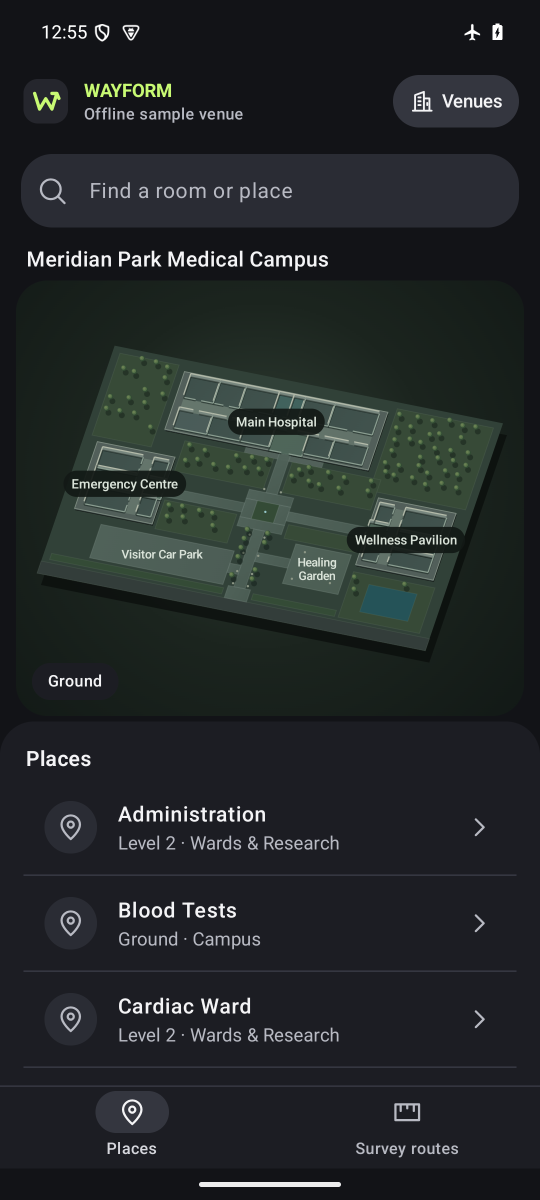
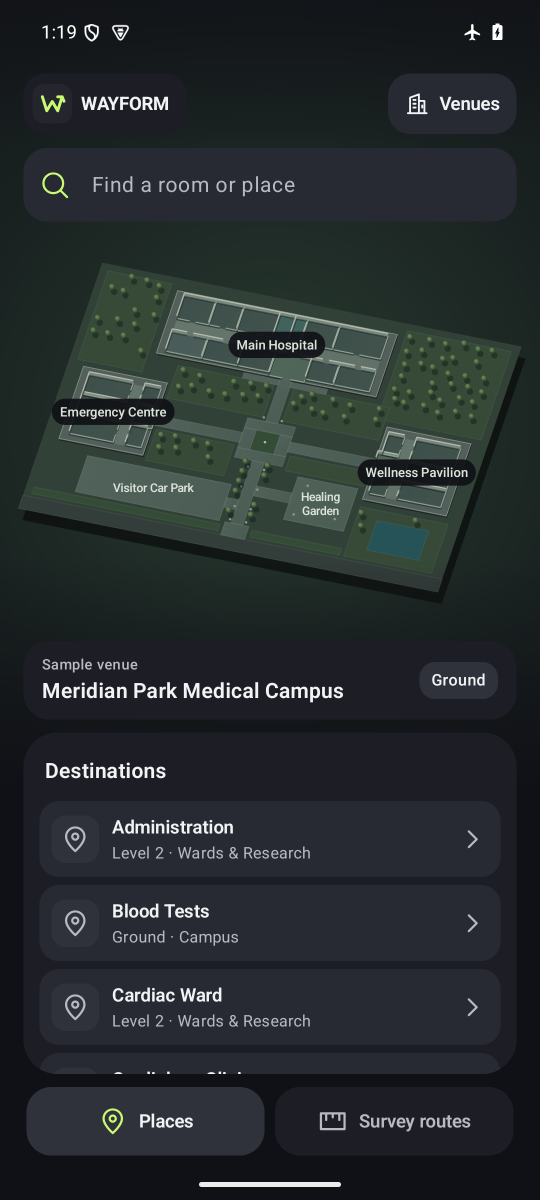
Update the walkthrough and screenshots for preview 5

diff --git a/README.md b/README.md
@@ -2,21 +2,21 @@
 
 WAYFORM is an offline Android wayfinding app for getting from a venue entrance to a specific room. Its survey planner checks which paths have enough measured clearance, slope and step evidence for a visitor’s requirements.
 
-**[Download the Android preview](https://github.com/SanishKumar/wayform/releases/download/v0.1.0-preview.4/wayform-0.1.0-preview.4.apk)** · [Release notes and checksum](https://github.com/SanishKumar/wayform/releases/tag/v0.1.0-preview.4) · [Build from source](docs/android.md)
+**[Download the Android preview](https://github.com/SanishKumar/wayform/releases/download/v0.1.0-preview.5/wayform-0.1.0-preview.5.apk)** · [Release notes and checksum](https://github.com/SanishKumar/wayform/releases/tag/v0.1.0-preview.5) · [Build from source](docs/android.md)
 
 The public preview runs in airplane mode and uses fictional venues. You can also open a private survey file on the device for a dated route assessment. **Real-world navigation still needs a surveyed venue and a supervised field trial.**
 
 | Explore the venue | Preview the route | Follow directions | Compare widths |
 | --- | --- | --- | --- |
-| <img src="docs/images/destination-search.png" width="205" alt="Room search above the modeled Meridian Park campus"> | <img src="docs/images/floor-preview.png" width="205" alt="A lime route crosses the 3D floor cutaway from Start to the next floor"> | <img src="docs/images/journey-step.png" width="205" alt="The map highlights the point for the current step above the instruction and Next instruction button"> | <img src="docs/images/survey-route.png" width="205" alt="The 90 cm choice selects the 18 metre side-lobby route"> |
+| <img src="docs/images/destination-search.png" width="205" alt="Floating search, venue controls and destination tiles over the modeled Meridian Park campus"> | <img src="docs/images/floor-preview.png" width="205" alt="A lime route crosses the floor cutaway above the route summary and Start tile"> | <img src="docs/images/journey-step.png" width="205" alt="The map highlights the point for the current step above the instruction and Next tile"> | <img src="docs/images/survey-route.png" width="205" alt="The 90 cm choice selects the 18 metre side-lobby route"> |
 
 ## Try it in three minutes
 
-Install the preview APK on an Android 8.0 or newer arm64 phone or x86_64 emulator. You can open the downloaded APK on the device, or use `adb install -r wayform-0.1.0-preview.4.apk`. The preview installs as `app.wayform.preview`. Its bundled examples need no account or network.
+Install the preview APK on an Android 8.0 or newer arm64 phone or x86_64 emulator. You can open the downloaded APK on the device, or use `adb install -r wayform-0.1.0-preview.5.apk`. The preview installs as `app.wayform.preview`. Its bundled examples need no account or network.
 
-If you installed an earlier GitHub preview, uninstall it before installing preview 4. The previews use different development signing certificates. Uninstalling removes saved preferences.
+If you installed an earlier GitHub preview, uninstall it before installing preview 5. The previews use different development signing certificates. Uninstalling removes saved preferences.
 
-1. **Find a room.** In Asterion University Medical Center, search for **cardiology** and open **Heart & Vascular Clinic**. Switch between **3D** and **2D** or choose a floor to inspect the route. Tap **Start sample journey**, check that you see **Civic Plaza Entrance**, then select **I'm here · Start**. Tap **Next instruction** to advance. Leave the optional mobility measurements blank for this example. For the outdoor map, open **Venues → Meridian Park Medical Campus**.
+1. **Find a room.** In Asterion University Medical Center, search for **cardiology** and open **Heart & Vascular Clinic**. Switch between **3D** and **2D** or choose a floor to inspect the route. Tap **Start**, check that you see **Civic Plaza Entrance**, then select **I'm here · Start**. Tap **Next** to advance. Leave the optional mobility measurements blank for this example. For the outdoor map, open **Venues → Meridian Park Medical Campus**.
 2. **Recover after a missed turn.** During guidance, tap **I'm not here**. Search for **Garden Café** and select it. The preview now starts at the café and still ends at the clinic. Confirm the new start to continue. To try QR recovery, open the [sample sign](docs/images/asterion-east-sign.png) on a second screen and choose **I'm not here → Scan QR sign**.
 3. **See a measurement change the route.** Return to places and choose **Survey routes → Try the clinic example**. The example opens with a 90 cm width. Tap **75 cm**, **90 cm** or **120 cm** to recalculate immediately. **Edit example requirements** also lets you try zero steps. These example settings are separate from your saved visitor profile.
 

diff --git a/docs/android.md b/docs/android.md
@@ -2,9 +2,9 @@
 
 The Android app provides a searchable offline catalog of four synthetic VoiceGIS venues, floor maps, native route previews and manual step-by-step guidance. Starting guidance requires an explicitly confirmed starting place and current operating conditions. The selected venue and authored stairs-exclusion option survive process restarts; active journeys and location confirmations do not. No network permission is requested.
 
-The overview shows the venue's modeled geometry. A route can be viewed as a **3D** cutaway or a **2D** floor plan. Both views use the same room polygons, doorway openings, floor changes and route coordinates. Meridian Park Medical Campus has authored building footprints, paths and landscaping for the outdoor view. During guidance, the highlighted point belongs to the current instruction. Advancing the instruction can change the displayed floor. Pinch to zoom, drag while zoomed, or use the map's screen reader zoom actions.
+The opening screen places search and venue controls over the venue map. The route view frames the selected path and keeps the floor picker, route information and actions in a dock. A route can be viewed as a **3D** cutaway or a **2D** floor plan. Both views use the same room polygons, doorway openings, floor changes and route coordinates. Meridian Park Medical Campus has authored building footprints, paths and landscaping for the outdoor view. During guidance, the highlighted point belongs to the current instruction. Advancing the instruction can change the displayed floor. Pinch to zoom, drag while zoomed, or use the map's screen reader zoom actions.
 
-Start sample journey opens a confirmation with the chosen starting place and conditions. With no existing conditions file, the confirmation offers simulated open paths for ten minutes. The visitor can change the origin, scan a sign or choose different conditions before starting. Route options also exposes the conditions panel, which simulates open paths, closed lifts or a 30-second expiry in the bundled fictional venues. These simulations are not operator reports. Each active journey owns a native policy lease. The host checks wall and monotonic clocks before displaying the initial result, advancing a step and at the lease's timer deadline. Expiry, clock failure, changed conditions, recovery and suspension remove the route. Backgrounding requires a new location confirmation. Movement and arrival are confirmed manually; there is no continuous positioning.
+**Start** opens a confirmation with the chosen starting place and conditions. With no existing conditions file, the confirmation offers simulated open paths for ten minutes. The visitor can change the origin, scan a sign or choose different conditions before starting. Route options also exposes the conditions panel, which simulates open paths, closed lifts or a 30-second expiry in the bundled fictional venues. These simulations are not operator reports. Each active journey owns a native policy lease. The host checks wall and monotonic clocks before displaying the initial result, advancing a step and at the lease's timer deadline. Expiry, clock failure, changed conditions, recovery and suspension remove the route. Backgrounding requires a new location confirmation. Movement and arrival are confirmed manually; there is no continuous positioning.
 
 **I'm not here** pauses the trip, clears the previous origin and opens **Where are you now?** Search for a visible room or floor, scan a venue sign or enter its code. Closing the picker leaves **Choose current location** available. A recognized sign or selected room produces a fresh preview to the same destination. Confirm the new starting place to resume under the selected conditions. Expired conditions still block guidance.
 
